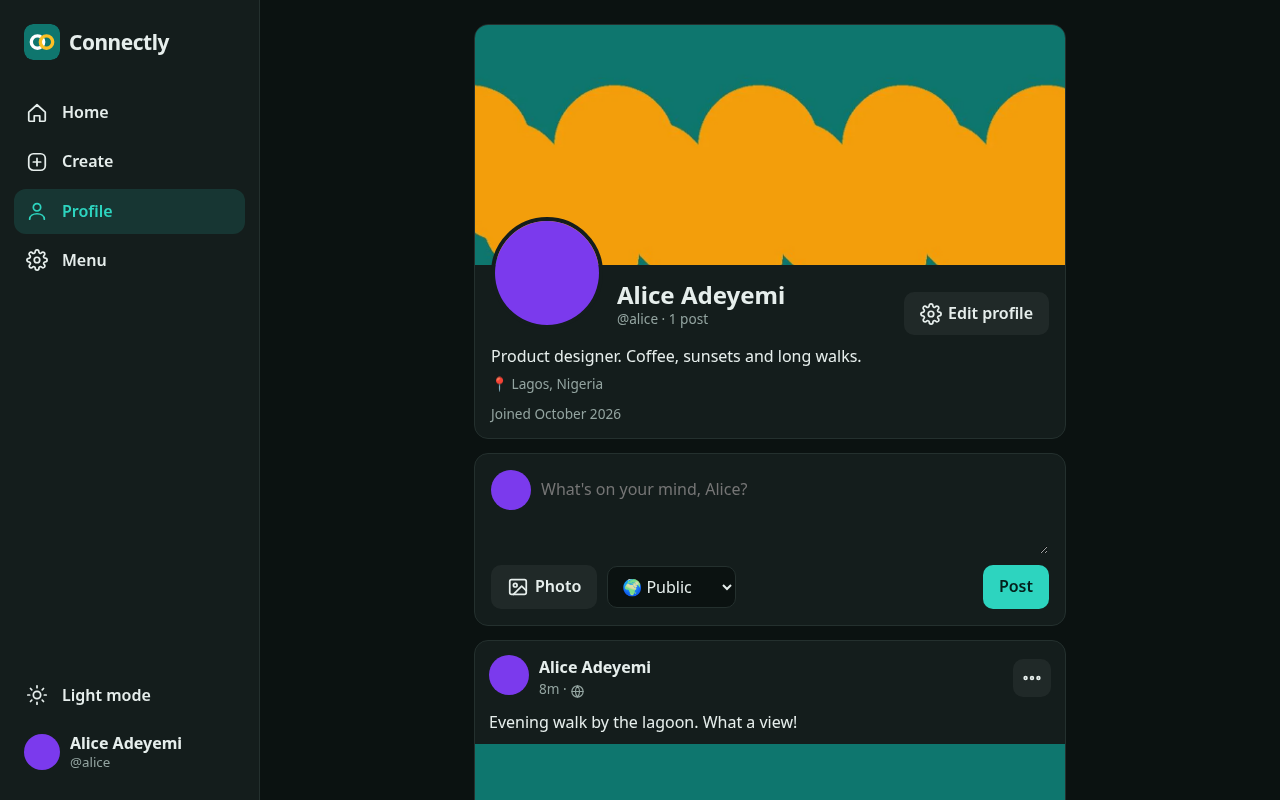
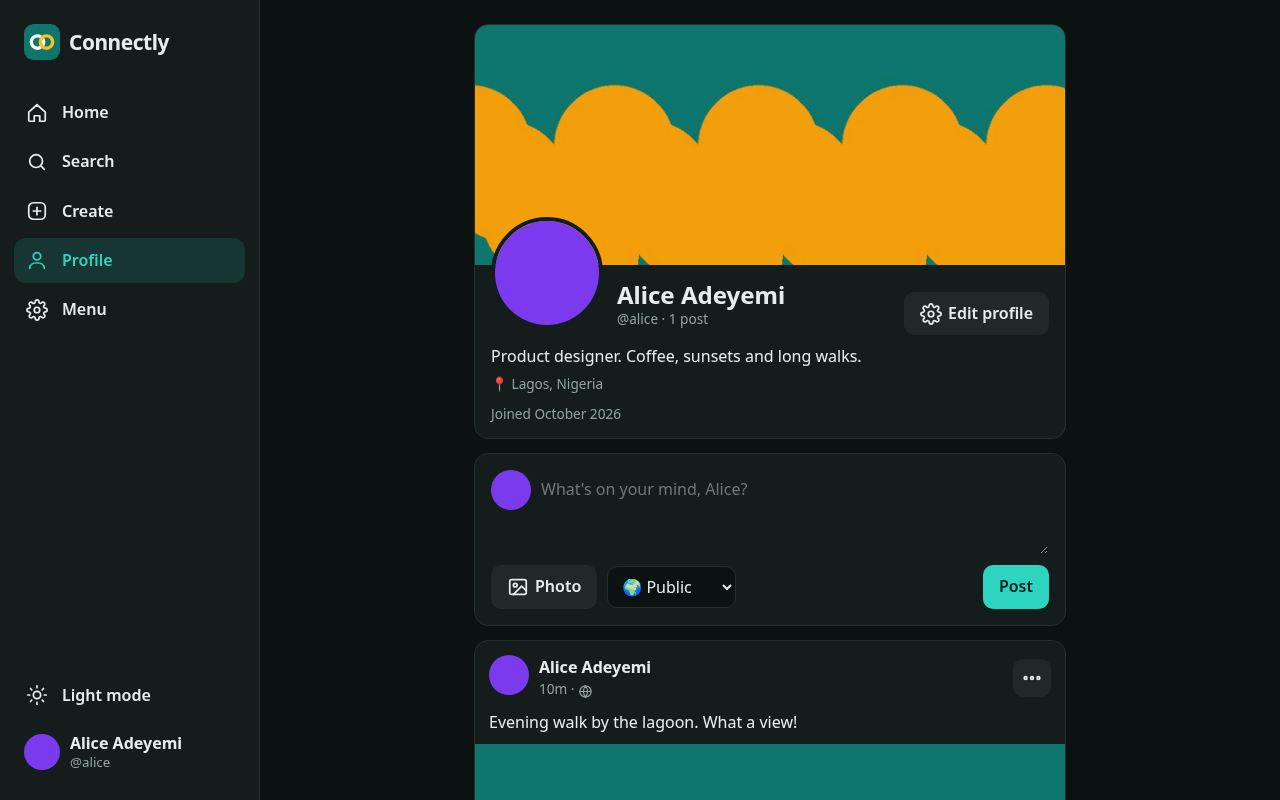
Search (people + posts), admin-only production seed

Changed region(s): [[0.0, 0.1875, 0.2188, 0.4062], [0.4062, 0.8438, 0.4688, 0.875]]

diff --git a/web/src/pages/Search.tsx b/web/src/pages/Search.tsx
@@ -1,0 +1,37 @@
+import { useEffect, useState } from 'react';
+import { Link, useSearchParams } from 'react-router-dom';
+import { api } from '../api';
+import { Avatar, Icon } from '../components/ui';
+import { PostList, usePosts } from '../components/PostList';
+
+type Person = { id: number; username: string; display_name: string; avatar_path: string | null; bio: string };
+
+export function Search() {
+  const [sp, setSp] = useSearchParams();
+  const q = sp.get('q') || ''; const type = sp.get('type') === 'posts' ? 'posts' : 'people';
+  const [text, setText] = useState(q);
+  useEffect(() => { const t = setTimeout(() => { if (text.trim() !== q) setSp({ q: text.trim(), type }, { replace: true }); }, 300); return () => clearTimeout(t); }, [text]); // eslint-disable-line
+  const setType = (t: string) => setSp({ q, type: t }, { replace: true });
+  return <div className="stack">
+    <h1 className="pagetitle">Search</h1>
+    <div className="card stack">
+      <label className="searchbox"><Icon name="search" /><input type="search" value={text} onChange={(e) => setText(e.target.value)} placeholder="Search people or posts" autoFocus aria-label="Search" maxLength={100} enterKeyHint="search" /></label>
+      <div className="tabs" role="tablist">{['people', 'posts'].map((t) => <button key={t} role="tab" aria-selected={type === t} className={type === t ? 'active' : ''} onClick={() => setType(t)}>{t === 'people' ? 'People' : 'Posts'}</button>)}</div>
+    </div>
+    {!q ? <p className="card empty">Type a name, username or words from a post.</p> : type === 'people' ? <People q={q} /> : <Posts q={q} />}
+  </div>;
+}
+function People({ q }: { q: string }) {
+  const [items, setItems] = useState<Person[] | null>(null); const [err, setErr] = useState('');
+  useEffect(() => { let live = true; setItems(null); setErr('');
+    api<{ items: Person[] }>(`/search?type=people&q=${encodeURIComponent(q)}`).then((r) => live && setItems(r.items)).catch((e) => live && setErr(e.message));
+    return () => { live = false; }; }, [q]);
+  if (err) return <p className="error card">{err}</p>;
+  if (!items) return <p className="card empty">Searching…</p>;
+  if (!items.length) return <p className="card empty">No people match “{q}”.</p>;
+  return <div className="card list">{items.map((p) => <Link key={p.id} to={`/u/${p.username}`} className="person"><Avatar user={p} size={44} /><span className="grow"><b>{p.display_name}</b><small className="meta">@{p.username}{p.bio ? ` · ${p.bio}` : ''}</small></span></Link>)}</div>;
+}
+function Posts({ q }: { q: string }) {
+  const feed = usePosts(`/search?type=posts&q=${encodeURIComponent(q)}`);
+  return <PostList feed={feed} empty={`No posts match “${q}”.`} />;
+}

diff --git a/web/src/components/ui.tsx b/web/src/components/ui.tsx
@@ -13,7 +13,7 @@ export function Avatar({ user, size = 40 }: { user: Pick<Author, 'display_name' 
 export function UserLink({ user }: { user: Author }) {
   return <Link to={`/u/${user.username}`} className="ulink">{user.display_name}</Link>;
 }
-export function Icon({ name }: { name: 'home' | 'user' | 'plus' | 'gear' | 'shield' | 'sun' | 'moon' | 'heart' | 'heartFill' | 'chat' | 'globe' | 'users' | 'lock' | 'logout' | 'image' | 'more' }) {
+export function Icon({ name }: { name: 'home' | 'user' | 'plus' | 'gear' | 'shield' | 'sun' | 'moon' | 'heart' | 'heartFill' | 'chat' | 'globe' | 'users' | 'lock' | 'logout' | 'image' | 'more' | 'search' }) {
   const p: Record<string, JSX.Element> = {
     home: <path d="M3 11l9-8 9 8v9a1 1 0 01-1 1h-5v-6H9v6H4a1 1 0 01-1-1z" />,
     user: <><circle cx="12" cy="8" r="4" /><path d="M4 21c0-4 4-6 8-6s8 2 8 6" /></>,
@@ -30,6 +30,7 @@ export function Icon({ name }: { name: 'home' | 'user' | 'plus' | 'gear' | 'shie
     lock: <><rect x="4" y="10" width="16" height="11" rx="2" /><path d="M8 10V7a4 4 0 018 0v3" /></>,
     logout: <path d="M15 4h4a1 1 0 011 1v14a1 1 0 01-1 1h-4M10 8l-4 4 4 4M6 12h11" />,
     image: <><rect x="3" y="4" width="18" height="16" rx="2" /><circle cx="9" cy="10" r="2" /><path d="M21 16l-5-5-9 9" /></>,
+    search: <><circle cx="11" cy="11" r="7" /><path d="M20 20l-3.5-3.5" /></>,
     more: <><circle cx="5" cy="12" r="1.5" /><circle cx="12" cy="12" r="1.5" /><circle cx="19" cy="12" r="1.5" /></>,
   };
   return <svg className="icon" viewBox="0 0 24 24" width="22" height="22" fill="none" stroke="currentColor" strokeWidth="1.9" strokeLinecap="round" strokeLinejoin="round" aria-hidden>{p[name]}</svg>;

diff --git a/web/src/App.tsx b/web/src/App.tsx
@@ -6,6 +6,7 @@ import { Feed, Compose } from './pages/Feed';
 import { Profile, EditProfile } from './pages/Profile';
 import { Settings } from './pages/Settings';
 import { Admin } from './pages/Admin';
+import { Search } from './pages/Search';
 
 export function App() { return <SessionProvider><Router /></SessionProvider>; }
 
@@ -19,7 +20,7 @@ function Router() {
   </Routes>;
   if (!me.email_verified) return <Verify />;
   return <Layout><Routes>
-    <Route path="/" element={<Feed />} /><Route path="/compose" element={<Compose />} />
+    <Route path="/" element={<Feed />} /><Route path="/compose" element={<Compose />} /><Route path="/search" element={<Search />} />
     <Route path="/u/:username" element={<Profile />} /><Route path="/settings" element={<Settings />} />
     <Route path="/settings/profile" element={<EditProfile />} /><Route path="/admin" element={<Admin />} />
     <Route path="/login" element={<Navigate to="/" replace />} /><Route path="/register" element={<Navigate to="/" replace />} />
@@ -31,6 +32,7 @@ function Layout({ children }: { children: React.ReactNode }) {
   const { me, theme, toggleTheme } = useSession();
   const items = [
     { to: '/', label: 'Home', icon: 'home' as const, end: true },
+    { to: '/search', label: 'Search', icon: 'search' as const },
     { to: '/compose', label: 'Create', icon: 'plus' as const },
     { to: `/u/${me!.username}`, label: 'Profile', icon: 'user' as const },
     ...(me!.roles?.includes('admin') ? [{ to: '/admin', label: 'Admin', icon: 'shield' as const }] : []),

diff --git a/server/app.js b/server/app.js
@@ -268,6 +268,19 @@ export function createApp() {
     res.json({ ok: true });
   });
 
+  // ---------- search ----------
+  api.get('/search', requireAuth, async (req, res) => {
+    const { q: term, type, cursor } = z.object({ q: z.string().trim().min(1).max(100), type: z.enum(['people', 'posts']).default('people'), cursor: z.string().optional(), limit: z.string().optional() }).parse(req.query);
+    const like = '%' + term.toLowerCase().replace(/[\\%_]/g, (c) => '\\' + c) + '%';
+    if (type === 'people') {
+      const { rows } = await q(`SELECT id, username, display_name, avatar_path, bio FROM users
+        WHERE email_verified_at IS NOT NULL AND (lower(username) || ' ' || lower(display_name)) LIKE $1
+        ORDER BY (lower(username) = lower($2)) DESC, (lower(username) LIKE lower($2) || '%') DESC, display_name LIMIT 20`, [like, term]);
+      return res.json({ items: rows, next_cursor: null });
+    }
+    res.json(await pagePosts(req.user.id, 'lower(p.body) LIKE $2', [like], cursor, req.query.limit));
+  });
+
   // ---------- admin ----------
   api.get('/admin/users', requireAdmin, async (_req, res) => {
     const { rows } = await q(`SELECT u.id, u.username, u.display_name, u.email, u.created_at, u.email_verified_at IS NOT NULL AS email_verified,

diff --git a/server/seed.js b/server/seed.js
@@ -1,4 +1,4 @@
-// Seeds demo accounts (alice, bob) and one admin. Idempotent.
+// Seeds the admin account (and demo users only if SEED_DEMO=1). Idempotent.
 import fs from 'node:fs';
 import crypto from 'node:crypto';
 import bcrypt from 'bcryptjs';
@@ -11,8 +11,11 @@ async function upsert(username, display, email, pw) {
   const r = await q('INSERT INTO users (username, display_name, email, password_hash) VALUES ($1,$2,$3,$4) RETURNING id', [username, display, email, await bcrypt.hash(pw, 12)]);
   return { id: r.rows[0].id, created: true };
 }
-await upsert('alice', 'Alice Adeyemi', 'alice@example.com', 'Connectly123!');
-await upsert('bob', 'Bob Okafor', 'bob@example.com', 'Connectly123!');
+// Demo accounts are for local development only (SEED_DEMO=1). Production seeds only the admin.
+if (process.env.SEED_DEMO === '1') {
+  await upsert('alice', 'Alice Adeyemi', 'alice@example.com', 'Connectly123!');
+  await upsert('bob', 'Bob Okafor', 'bob@example.com', 'Connectly123!');
+}
 const credFile = process.env.ADMIN_CREDENTIALS_FILE || 'ADMIN_CREDENTIALS.txt';
 let adminPw = process.env.ADMIN_PASSWORD;
 const exists = (await q("SELECT 1 FROM users WHERE username='admin'")).rows.length;

diff --git a/web/src/styles.css b/web/src/styles.css
@@ -92,3 +92,8 @@ label.btn{flex-direction:row}
 .tablewrap{overflow-x:auto}table{width:100%;border-collapse:collapse;font-size:.9rem}th,td{text-align:left;padding:8px 6px;border-bottom:1px solid var(--border)}
 .resetrow{display:flex;flex-direction:column;gap:4px;padding:8px 0;border-bottom:1px solid var(--border)}.resetrow input{font-size:.8rem}
 .codeinput{font-size:1.8rem;letter-spacing:.5em;text-align:center;font-variant-numeric:tabular-nums;padding:12px}
+.searchbox{flex-direction:row;align-items:center;gap:8px;background:var(--bg);border:1px solid var(--border);border-radius:999px;padding:0 14px;color:var(--muted)}
+.searchbox input{border:0;background:transparent;padding:11px 0}.searchbox input:focus{outline:none}.searchbox:focus-within{outline:2px solid var(--primary)}
+.tabs{display:flex;gap:6px}.tabs button{flex:1;border:0;background:none;padding:9px;border-radius:10px;font:inherit;font-weight:600;color:var(--muted);cursor:pointer}
+.tabs button.active{background:color-mix(in srgb,var(--primary) 14%,transparent);color:var(--primary)}
+.person span{display:flex;flex-direction:column;line-height:1.3}.person small{white-space:nowrap;overflow:hidden;text-overflow:ellipsis}

diff --git a/tests/api.test.js b/tests/api.test.js
@@ -226,6 +226,16 @@ test('cursor pagination has no duplicates or gaps', async () => {
   assert.equal(seen.length, rows[0].n);
 });
 
+test('search people and posts respects visibility', async () => {
+  let r = await B.get('/api/search?q=ali&type=people'); assert.equal(r.status, 200); assert.equal(r.body.items[0].username, 'alice');
+  r = await B.get('/api/search?q=fay&type=people'); assert.equal(r.body.items.length, 0, 'unverified users hidden');
+  r = await B.get('/api/search?q=%25&type=people'); assert.equal(r.body.items.length, 0, 'wildcards escaped');
+  r = await C.get('/api/search?q=diary&type=posts'); assert.equal(r.body.items.length, 0, 'private post not searchable by others');
+  r = await A.get('/api/search?q=diary&type=posts'); assert.equal(r.body.items.length, 1);
+  r = await C.get('/api/search?q=edited&type=posts'); assert.equal(r.body.items[0].id, pub.id);
+  r = await C.get('/api/search?q=&type=posts'); assert.equal(r.status, 400);
+});
+
 test('security headers present', async () => {
   const r = await request(app).get('/api/health');
   assert.equal(r.status, 200);

diff --git a/web/src/pages/Settings.tsx b/web/src/pages/Settings.tsx
@@ -13,7 +13,7 @@ export function Settings() {
       {me.roles?.includes('admin') && <Link to="/admin"><Icon name="shield" /> Admin</Link>}
       <button className="danger" onClick={async () => { await logout(); nav('/login'); }}><Icon name="logout" /> Log out</button>
     </div>
-    <div className="card"><h3>Coming in the next milestone</h3><p className="meta">Friends &amp; follows, notifications, sharing, reporting, messaging. These aren't clickable yet because they aren't built.</p></div>
+    <div className="card"><h3>Coming in the next milestone</h3><p className="meta">Friends &amp; follows, notifications, sharing, reporting and messaging are being built and will appear here when ready.</p></div>
     <p className="meta center">Signed in as @{me.username} · {me.email}</p>
   </div>;
 }

diff --git a/scripts/screenshots.py b/scripts/screenshots.py
@@ -1,4 +1,4 @@
-# Usage: python3 scripts/screenshots.py [BASE_URL]  -> screenshots/*.png
+# Needs a DB seeded with SEED_DEMO=1 (alice). Usage: python3 scripts/screenshots.py [BASE_URL]  -> screenshots/*.png
 import sys, os
 from playwright.sync_api import sync_playwright
 BASE = sys.argv[1] if len(sys.argv) > 1 else 'http://localhost:3000'
@@ -24,6 +24,8 @@ with sync_playwright() as p:
         pg.goto(BASE + '/compose', wait_until='networkidle'); pg.wait_for_selector('textarea')
         pg.fill('textarea', 'Drafting a new post from the composer…')
         pg.screenshot(path=f'screenshots/{PREFIX}{tag}-composer.png')
+        pg.goto(BASE + '/search?q=a&type=people', wait_until='networkidle'); pg.wait_for_timeout(600)
+        pg.screenshot(path=f'screenshots/{PREFIX}{tag}-search.png')
         pg.goto(BASE + '/u/alice', wait_until='networkidle'); pg.wait_for_selector('h1'); pg.wait_for_timeout(600)
         pg.screenshot(path=f'screenshots/{PREFIX}{tag}-profile.png')
         if not mobile:
